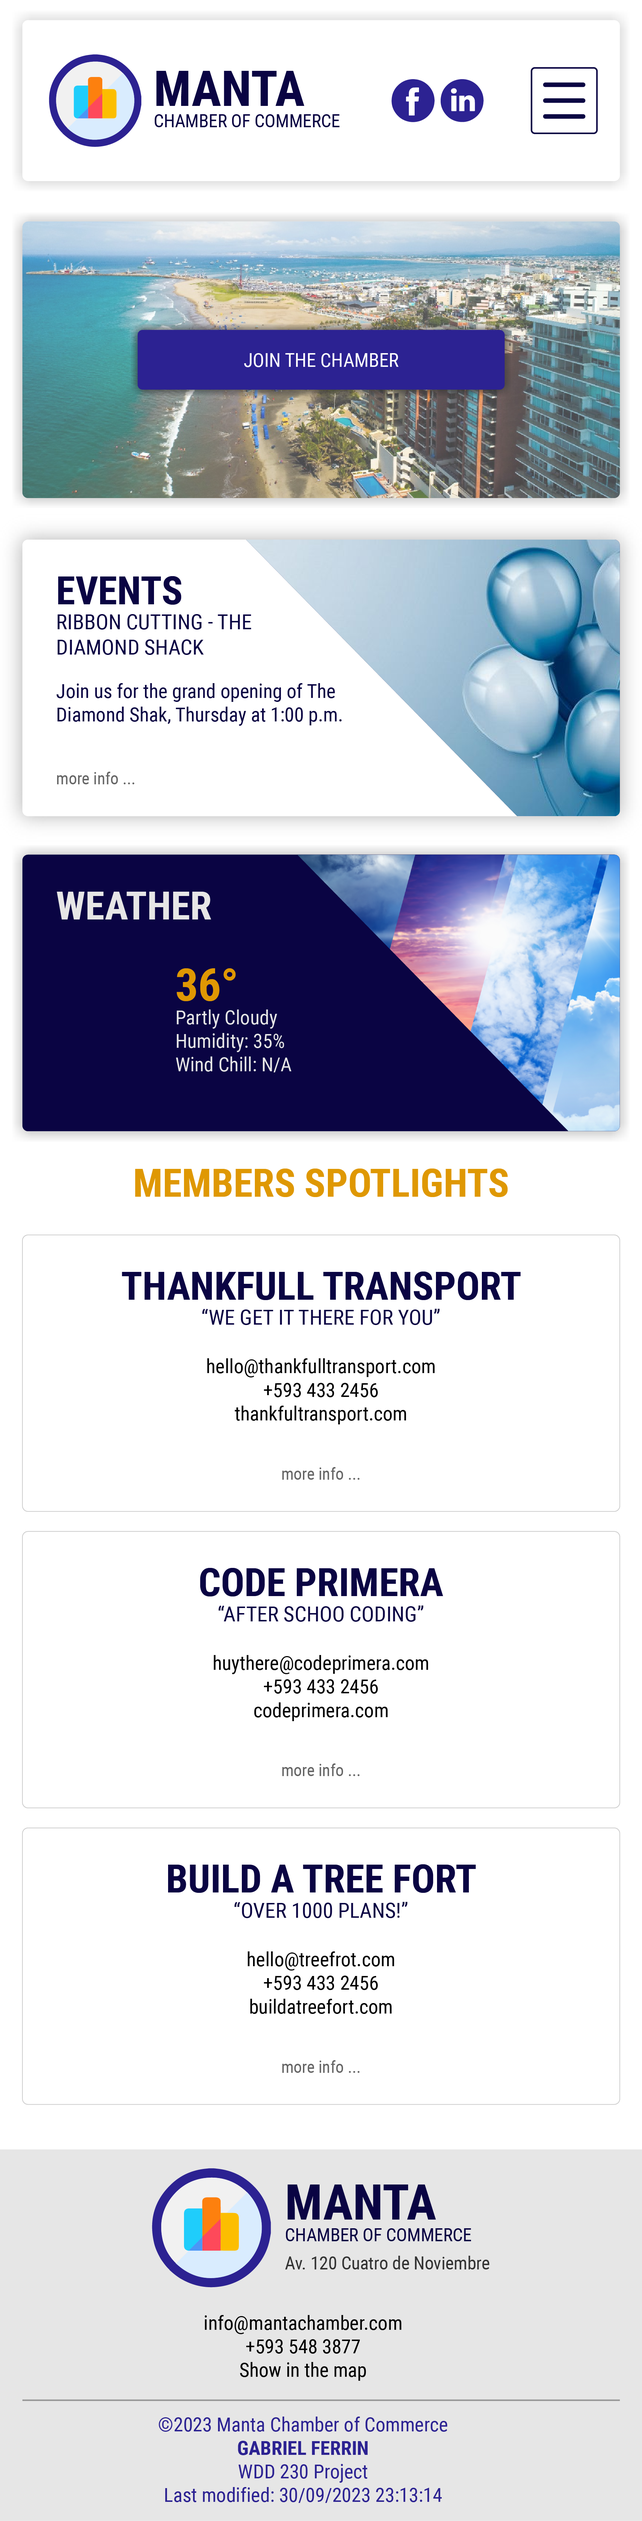
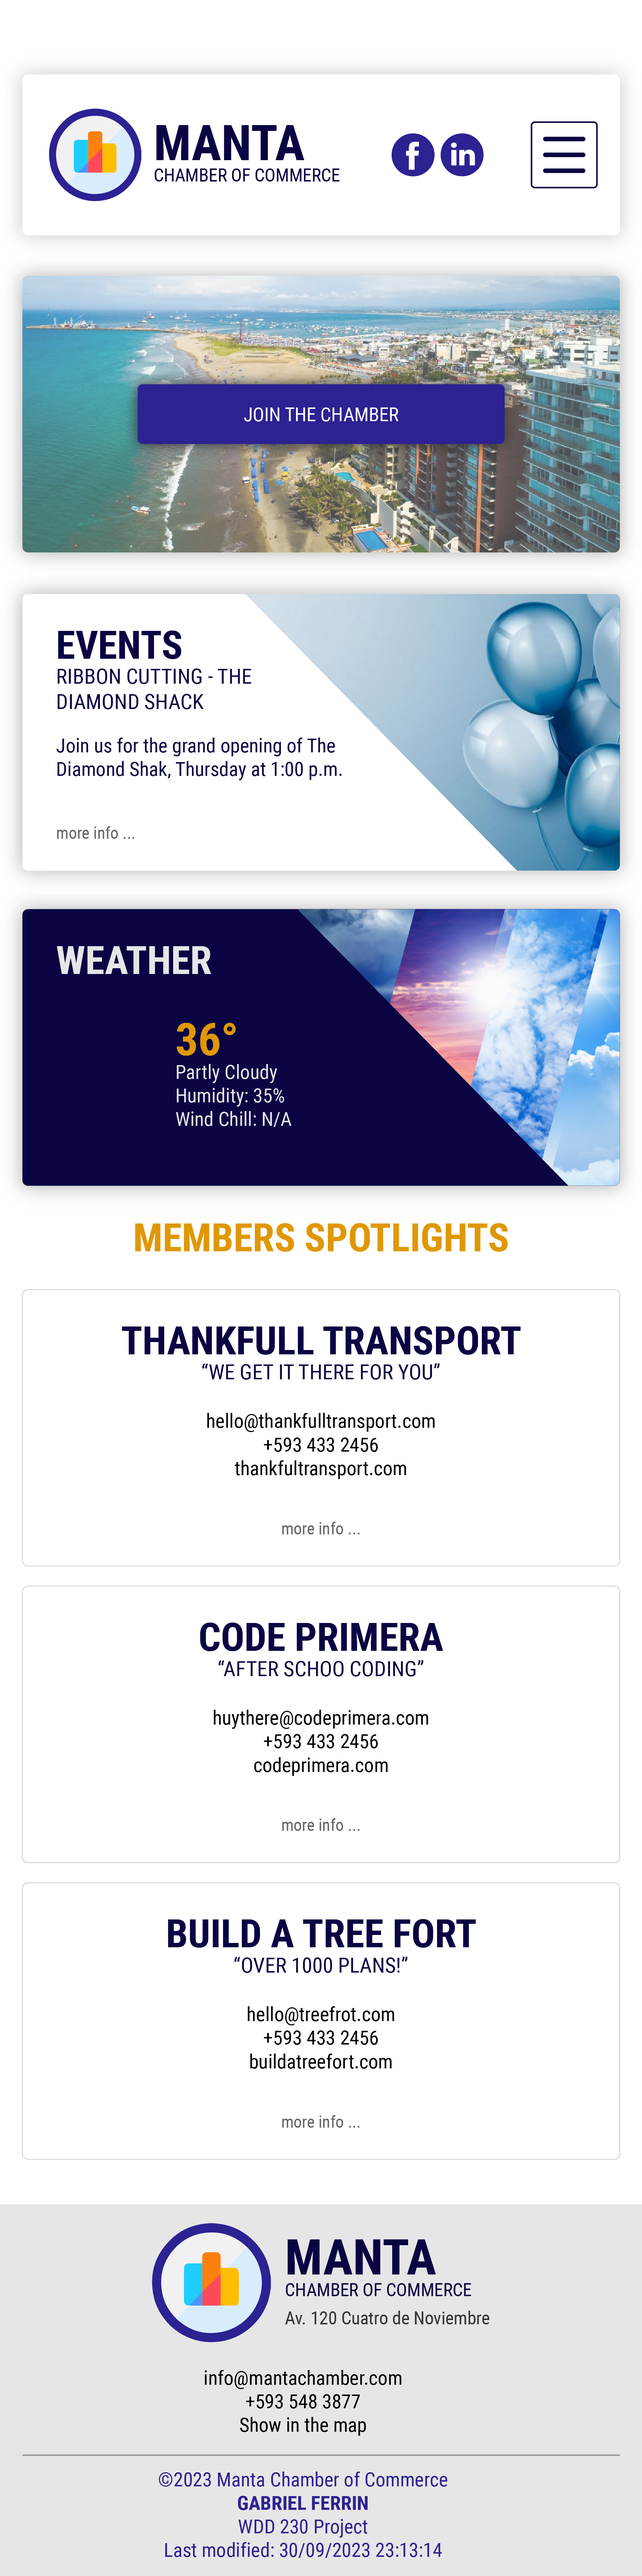
site-plan w3

Changed region(s): [[0.031, 0.0, 0.991, 0.5911], [0.2477, 0.6222, 0.7432, 0.9956]]

diff --git a/lesson03/chamber-site-plan.html b/lesson03/chamber-site-plan.html
@@ -50,6 +50,7 @@
   <!-- script -->
   <script defer src="../scripts/getdates.js"></script>
   <script defer src="../scripts/hamburger-menu.js"></script>
+  <script defer src="scripts/script.js"></script>
 </head>
 
 <body>
@@ -228,10 +229,12 @@
         <h3>MOBILE WIREFRAME</h3>
       </div>
       <div class="card-body mobile-wireframe">
-        <img id="iphone-frame" src="images/iphone-frame.png" alt="">
         <div class="iphone-wrapper">
           <img id="mobile-wireframe" src="images/wireframe-mobile.png" alt="Wireframe image of chamber site" width="397" height="1560">
         </div>
+        <img id="iphone-frame" src="images/iphone-frame.png" alt="">
+        <!-- <img id="iphone-camera" src="images/iphone-camera.png" alt=""> -->
+        <!-- <img id="iphone-home" src="images/iphone-home.png" alt=""> -->
       </div>
     </section>
   </main>

diff --git a/lesson03/styles/base.css b/lesson03/styles/base.css
@@ -463,11 +463,12 @@ main .topography-card .subtitle {
 }
 
 main .mobile-wireframe {
+	background-color: red;
 	position: relative;
-	height: calc(777px + calc(var(--gap) * 2)) !important;
 }
 
-main .mobile-wireframe img{
+main .mobile-wireframe img,
+main .wireframe img {
 	width: 100% !important;
 	height: auto !important;
 }
@@ -483,11 +484,23 @@ main #iphone-frame {
 main .iphone-wrapper {
 	overflow: auto;
 	width: calc(100% - 38px);
-	height: calc(100% - var(--gap) - 36px);
+	height: calc(100% - 36px);
 	margin-left: 20px;
 	margin-top: 17px;
 	border-radius: 50px;
 	z-index: 1;
+}
+
+main #iphone-camera {
+	position: absolute;
+	z-index: 2;
+}
+
+main #iphone-home {
+	position: absolute;
+	bottom: 0px;
+	left: 30px;
+	z-index: 2;
 }
 
 /* ****** */

diff --git a/lesson03/scripts/script.js b/lesson03/scripts/script.js
@@ -1,0 +1,8 @@
+const frame = document.getElementById('iphone-frame');
+
+// phone frame observer
+const frameObserver = new ResizeObserver(entries => {
+  const wrapper = document.getElementsByClassName('mobile-wireframe');
+  wrapper[0].style.height = entries[0].contentRect.height + 'px';
+});
+frameObserver.observe(frame);
